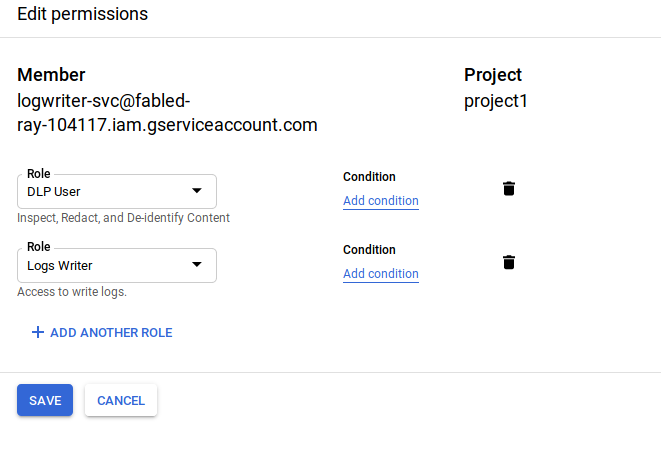
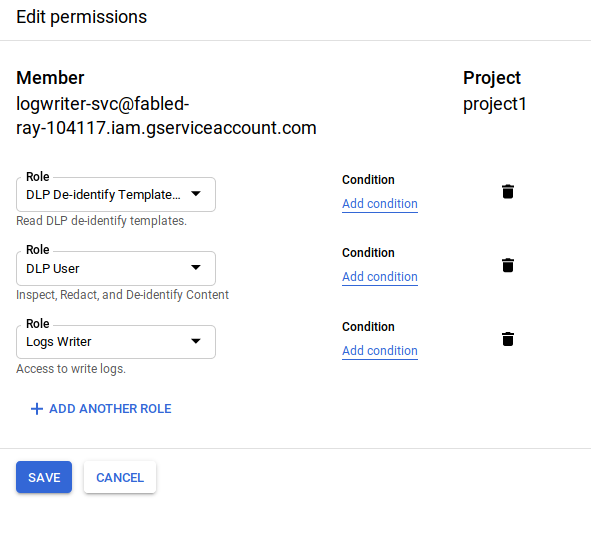
update to templates

diff --git a/test/plugin/test_gcp_dlp.rb b/test/plugin/test_gcp_dlp.rb
@@ -13,19 +13,7 @@ class GcpDlpFilterTest < Test::Unit::TestCase
   end
 
   CONFIG = %[
-    info_types ALL_BASIC
-    google_credential_file /path/to/your/local/application_default_credentials.json
-    use_metadata_service false
-  ]
-
-  DEIDENTIFY_CONFIG_EMAIL = %[
-    info_types EMAIL_ADDRESS
-    google_credential_file /path/to/your/local/application_default_credentials.json
-    use_metadata_service false
-  ]
-
-  DEIDENTIFY_CONFIG_EMAIL_SSN = %[
-    info_types EMAIL_ADDRESS,US_SOCIAL_SECURITY_NUMBER
+    deidentify_template projects/project-id/deidentifyTemplates/template-name
     google_credential_file /path/to/your/local/application_default_credentials.json
     use_metadata_service false
   ]
@@ -36,11 +24,11 @@ class GcpDlpFilterTest < Test::Unit::TestCase
 
   test 'configure' do
     d = create_driver(CONFIG)
-    assert_equal ['ALL_BASIC'], d.instance.info_types
+    assert_equal 'projects/project-id/deidentifyTemplates/template-name', d.instance.deidentify_template
   end
 
-  test 'deidentify_email' do
-    d = create_driver(DEIDENTIFY_CONFIG_EMAIL)
+  test 'deidentify_template' do
+    d = create_driver(CONFIG)
     record = {
       "key1": "hi sal, your email is sal@domain.com",
       "key2": "hi sal",
@@ -56,20 +44,5 @@ class GcpDlpFilterTest < Test::Unit::TestCase
     assert_equal 'hi sal', record["key2".to_sym]
   end
 
-  test 'deidentify_email_ssn' do
-    d = create_driver(DEIDENTIFY_CONFIG_EMAIL_SSN)
-    record = {
-      "key1": "hi sal, your email is sal@domain.com and ssn is 223-22-2222",
-    }
-    d.run(default_tag: "test") do
-     d.feed(record)
-    end
-
-    filtered_records = d.filtered_records
-    assert_equal(1, filtered_records.size)
-    record = filtered_records[0]
-    assert_equal 'hi sal, your email is [EMAIL_ADDRESS] and ssn is [US_SOCIAL_SECURITY_NUMBER]', record["key1".to_sym]
-
-  end
 
 end

diff --git a/lib/fluent/plugin/filter_gcp_dlp.rb b/lib/fluent/plugin/filter_gcp_dlp.rb
@@ -106,7 +106,7 @@ module Fluent::Plugin
       Platform::OTHER
     end
 
-    config_param :info_types, :array, value_type: :string
+    config_param :deidentify_template, :string, :default => nil
     config_param :use_metadata_service, :bool, :default => false
     config_param :google_credential_file, :string, :default => nil
     config_param :project_id, :string, :default => nil
@@ -146,42 +146,23 @@ module Fluent::Plugin
 
     def filter(tag, time, record)
 
-      selected_info_types = []
-      info_types.each {|i| selected_info_types.push({name: i} ) }
-
-      inspect_config = {
-        info_types: selected_info_types,
-      }
-
-      deidentify_config = {
-        info_type_transformations:{
-          transformations: [
-            {
-              primitive_transformation: {
-                replace_with_info_type_config: {},
-              },
-            },
-          ],
-        }
-      }
-
       begin
-        rows_to_inspect = []
+        rows_to_deidentify = []
         record.each { |k,v|
-          rows_to_inspect.push({ values: [ { string_value: v} ]})
+          rows_to_deidentify.push({ values: [ { string_value: v} ]})
         }
 
-        item_to_inspect = { table: {
+        item_to_deidentify = { table: {
             headers: [ { name: record.hash.to_s } ],
-            rows: rows_to_inspect,
+            rows: rows_to_deidentify,
           },
         }
         
         parent = "projects/#{project_id}"
-        response = @dlp.deidentify_content parent,
-          inspect_config: inspect_config,
-          deidentify_config: deidentify_config,
-          item:  item_to_inspect
+
+	      response = @dlp.deidentify_content parent,
+	        deidentify_template_name: deidentify_template,
+	        item:  item_to_deidentify
 
         @log.debug response.inspect
 

diff --git a/README.md b/README.md
@@ -13,7 +13,7 @@ Once the records data is redacted, fluent can forward the sanitized logs to whic
 
 ## Plugin configuration
 
-* `info_types, :array, value_type: :string`  --> DLP [inputtypes](https://cloud.google.com/dlp/docs/infotypes-reference) to apply 
+* `deidentify_template, :array, value_type: :string`  --> Reference to DLP [deidentify template](https://cloud.google.com/dlp/docs/creating-templates-deid).
 * `use_metadata_service, :bool, :default => false`  --> Use GCE metadata server to derive `access_token` and `project_id` 
 * `google_credential_file, :string, :default => nil`  -> Path to GCP json service account credential file.
 * `project_id, :string, :default => nil`  --> Set `project_id` manually.  Plugin will attempt to derive project_id from json credential file or GCE metadata.
@@ -27,8 +27,7 @@ Installation steps below describes setting this up on
 >> **NOTE**: 
 
 ..some TODOs:
-- batch: https://cloud.google.com/dlp/docs/reference/rest/v2/ContentItem#Table
-- use buffered_output plugin instead?
+- use [buffered_output](https://docs.fluentd.org/v0.12/articles/buffer-plugin-overview) plugin instead?
 - currently only supports [string_value](https://github.com/googleapis/googleapis/blob/master/google/privacy/dlp/v2/dlp.proto#L1590) types
 - many others
 
@@ -45,8 +44,8 @@ Either build `gem` locally or download the one provided in this repo.
 gem build fluent-plugin-gcp-dlp-filter.gemspec 
   Successfully built RubyGem
   Name: fluent-plugin-gcp-dlp-filter
-  Version: 0.0.6
-  File: fluent-plugin-gcp-dlp-filter-0.0.6.gem
+  Version: 0.0.7
+  File: fluent-plugin-gcp-dlp-filter-0.0.7.gem
 ```
 
 ### Fluentd
@@ -54,7 +53,7 @@ gem build fluent-plugin-gcp-dlp-filter.gemspec
 This section covers running the dlp agent within a stand-alone docker image.
 
 - Create service account and private key (name the file as `application_default_credential.json`)
-- Assign `DLP User` and `Logging Writer` IAM roles
+- Assign `DLP User`, `DLP De-identify Templates Reader`, and `Logging Writer` IAM roles
 
 ![images/dlp_iam.png](images/dlp_iam.png)
 
@@ -64,7 +63,7 @@ Copy the service account file to the volume mount in the container
 ```bash
 mkdir certs
 cp application_default_credential.json certs/
-cp fluent-plugin-gcp-dlp-filter-0.0.6.gem certs/
+cp fluent-plugin-gcp-dlp-filter-0.0.7.gem certs/
 
 docker run -ti  -p 8888:8888 -v `pwd`/certs/:/etc/google/auth/ debian /bin/bash
 
@@ -95,13 +94,15 @@ install the dlp gem:
 <filter gcp_resource.**>
   @type gcp_dlp
   google_credential_file /etc/google/auth/application_default_credentials.json
-  info_types EMAIL_ADDRESS,US_SOCIAL_SECURITY_NUMBER
+  deidentify_template projects/your-project-id/deidentifyTemplates/templateid
 </filter>
 
 <filter  gcp_resource.**>
   @type stdout
 </filter>
 ```
+
+> Note: please see the followign to configure the [deidentify template](https://cloud.google.com/dlp/docs/creating-templates-deid)
 
 - send traffic
 
@@ -128,7 +129,7 @@ If you want to emit the logs to GCP from arbitrary, on-prem VMs, you can utilize
 
 ```bash
 /opt/td-agent/embedded/bin/gem install google-cloud-dlp
-/usr/sbin/td-agent-gem install --local  /etc/google/auth/fluent-plugin-gcp-dlp-filter-0.0.6.gem
+/usr/sbin/td-agent-gem install --local  /etc/google/auth/fluent-plugin-gcp-dlp-filter-0.0.7.gem
 # google-api-client version pinned due to conflict..fluent-plugin-google-cloud uses older google-api-client-0.23.9
 /opt/td-agent/embedded/bin/gem install google-api-client -v 0.28.4
 /opt/td-agent/embedded/bin/gem install fluent-plugin-google-cloud
@@ -157,7 +158,7 @@ add
 <filter gcp_resource.**>
   @type gcp_dlp
   google_credential_file /etc/google/auth/application_default_credentials.json
-  info_types EMAIL_ADDRESS,US_SOCIAL_SECURITY_NUMBER
+  deidentify_template projects/your-project-id/deidentifyTemplates/templateId
 </filter>
 
 <filter  gcp_resource.**>
@@ -191,12 +192,12 @@ curl -sSO "https://dl.google.com/cloudagents/install-logging-agent.sh"
 sudo bash install-logging-agent.sh --structured
 ```
 
-Install `fluent-plugin-gcp-dlp-filter-0.0.6.gem`
+Install `fluent-plugin-gcp-dlp-filter-0.0.7.gem`
 
 ```
 /opt/google-fluentd/embedded/bin/gem install google-cloud-dlp
-wget https://github.com/salrashid123/fluent-plugin-gcp-dlp-filter/raw/master/fluent-plugin-gcp-dlp-filter-0.0.6.gem
-/opt/google-fluentd/embedded/bin/gem install --local fluent-plugin-gcp-dlp-filter-0.0.6.gem
+wget https://github.com/salrashid123/fluent-plugin-gcp-dlp-filter/raw/master/fluent-plugin-gcp-dlp-filter-0.0.7.gem
+/opt/google-fluentd/embedded/bin/gem install --local fluent-plugin-gcp-dlp-filter-0.0.7.gem
 ```
 
 > Yes, i didn't add this yet to rubygems
@@ -214,7 +215,7 @@ Edit
 
 <filter gcp_resource.**>
   @type gcp_dlp
-  info_types EMAIL_ADDRESS,US_SOCIAL_SECURITY_NUMBER
+  deidentify_template projects/your-project=id/deidentifyTemplates/templateid
   use_metadata_service  true 
 </filter>
 
@@ -252,7 +253,7 @@ As with any other fluentd config, you can specify which sources to apply the fil
 ```
 <filter syslog**>
   @type gcp_dlp
-  info_types EMAIL_ADDRESS,US_SOCIAL_SECURITY_NUMBER
+  deidentify_template projects/your-project-id/deidentifyTemplates/templateid
   use_metadata_service  true 
 </filter>
 ```
@@ -274,7 +275,7 @@ That will show up in GCP logs as:
 > Note, current the test cases actually invokes the DLP API (even as test)!
 
 Edit
-`test/plugin/test_gcp_dlp.rb` and update all the `CONFIG*` variables to point to an actual GCP certificate file
+`test/plugin/test_gcp_dlp.rb` and update all the `CONFIG*` variables to point to an actual GCP certificate file as well as a reference to a deidentify Template on that project.
 
 eg
 
@@ -287,18 +288,16 @@ eg
 ```
 
 ```
-
 $ bundle exec ruby test/plugin/test_gcp_dlp.rb
 Loaded suite test/plugin/test_gcp_dlp
 Started
-...
-Finished in 0.903983135 seconds.
+..
+Finished in 1.042686837 seconds.
 ----------------------------------------------------------------------------------------------------------------------------------------------------------------------------------------------------------------------------------------------
-3 tests, 6 assertions, 0 failures, 0 errors, 0 pendings, 0 omissions, 0 notifications
+2 tests, 4 assertions, 0 failures, 0 errors, 0 pendings, 0 omissions, 0 notifications
 100% passed
 ----------------------------------------------------------------------------------------------------------------------------------------------------------------------------------------------------------------------------------------------
-3.32 tests/s, 6.64 assertions/s
-
+1.92 tests/s, 3.84 assertions/s
 ```
 
 
